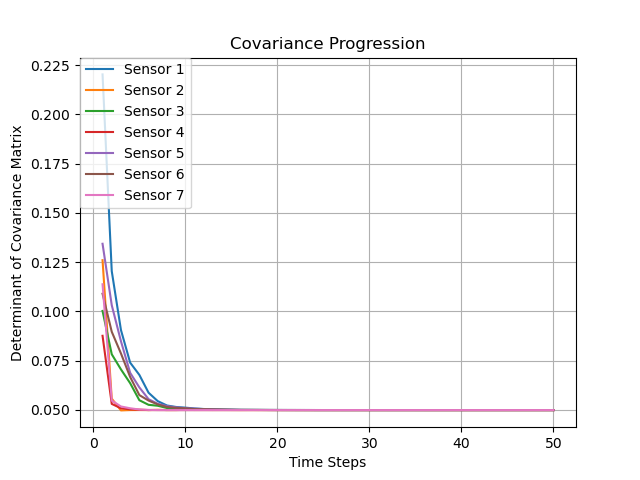
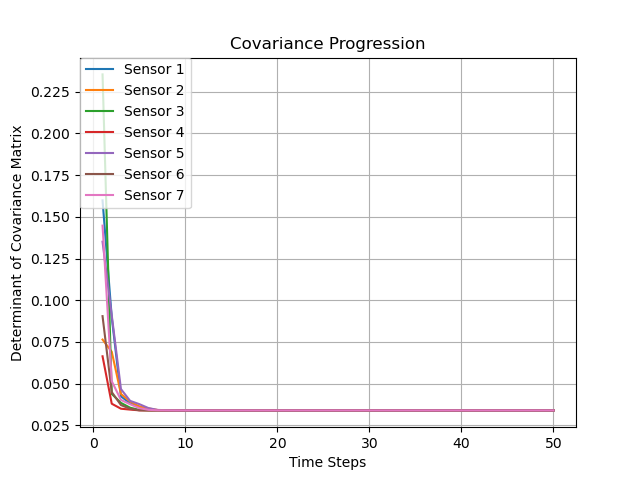
Fixed KL computation error also runs much faster now

diff --git a/decentralizedFusion.py b/decentralizedFusion.py
@@ -7,12 +7,20 @@ from scipy.stats import multivariate_normal
 from tqdm import tqdm
 import matplotlib.pyplot as plt
 
+import cProfile, pstats, io
+from pstats import SortKey
+
 def plot_ellipse(covariance, ax, label_t):
     x_el = np.array([np.sin(np.linspace(0, 2*math.pi, num=63)), np.cos(np.linspace(0, 2*math.pi, num=63))])
     C = np.linalg.cholesky(covariance)
     y_el = np.dot(C, x_el)
     ax.plot(y_el[0], y_el[1], label=label_t)
 
+def plot_last_ellipse(covariance, ax, label_t):
+    x_el = np.array([np.sin(np.linspace(0, 2*math.pi, num=63)), np.cos(np.linspace(0, 2*math.pi, num=63))])
+    C = np.linalg.cholesky(covariance)
+    y_el = np.dot(C, x_el)
+    ax.plot(y_el[0], y_el[1], label=label_t, linewidth=3)
 
 def CI(mu_s, cov_s, weights):
     total_cov = np.zeros(cov_s[0].shape)
@@ -45,7 +53,7 @@ def get_weights(sensor_covariances):
     weights = determinats/np.linalg.norm(determinats)
     return weights, c
 
-def covarianceIntersection(sensor_readings, sensor_covariances, N_time_steps, neighbors, N_agents, KL_inp, true_dist):
+def covarianceIntersection(sensor_readings, sensor_covariances, N_time_steps, neighbors, N_agents, KL_inp, true_dist, calculate_KL=True, calculate_det=True):
     KL_div = {}
     ax = plt.axes()
     determinant_progression = {}
@@ -63,10 +71,12 @@ def covarianceIntersection(sensor_readings, sensor_covariances, N_time_steps, ne
                 mu_s.append(sensor_readings[k])
                 cov_s.append(sensor_covariances[k])
             sensor_readings[j], sensor_covariances[j] = find_optimal_cov_and_mu(5, mu_s, cov_s)
-            dist = multivariate_normal(sensor_readings[j], sensor_covariances[j])
-            KL_div[j].append(compute_KL(true_dist, dist, KL_inp))
-            determinant_progression[j].append(lin.det(sensor_covariances[j]))
-    plot_ellipse(sensor_covariances[0], ax, "FINAL")
+            if(calculate_KL):
+                dist = multivariate_normal(sensor_readings[j], sensor_covariances[j])
+                KL_div[j].append(compute_KL(true_dist, dist, KL_inp))
+            if(calculate_det):
+                determinant_progression[j].append(lin.det(sensor_covariances[j]))
+    plot_last_ellipse(sensor_covariances[0], ax, "FINAL")
     plt.legend(loc='upper left', borderaxespad=0.)
     plt.grid(b = True)
     plt.title("Covariance Ellipses")

diff --git a/main.py b/main.py
@@ -48,7 +48,8 @@ P_link = .02
 axis_length = 100
 KL_inputs = []
 N_time_steps = 50
-
+calculate_KL_guard = False
+calculate_covariance_det = True
 #Used to plot pdf functions
 
 my_space.ang_meas_sigma = 5 * math.pi/180
@@ -134,33 +135,35 @@ P_centralized = multivariate_normal(fused_mu, fused_cov)
 
 #CI Decentralized Fusion
 
-sensor_mus, sensor_covs, KL_div, determinants = covarianceIntersection(sensor_mus, sensor_covs, N_time_steps, neighbors, N_agents, KL_inputs, P_centralized)
-ax = plt.axes()
+sensor_mus, sensor_covs, KL_div, determinants = covarianceIntersection(sensor_mus, sensor_covs, N_time_steps, neighbors, N_agents, KL_inputs, P_centralized, calculate_KL=calculate_KL_guard, calculate_det=calculate_covariance_det)
 X_axis = [i for i in range(1, N_time_steps + 1)]
-for i in range(N_agents):
-    kl = KL_div[i]
-    ax.plot(X_axis, kl, label="Sensor " + str(i + 1))
+if(calculate_KL_guard):    
+    ax = plt.axes()
+    for i in range(N_agents):
+        kl = KL_div[i]
+        ax.plot(X_axis, kl, label="Sensor " + str(i + 1))
 
-plt.ylabel("KL Divergence")
-plt.xlabel("Time Steps")
-plt.title("KL Divergence Progression")
-plt.legend(loc='upper left', borderaxespad=0.)
-plt.grid(b = True)
-plt.savefig("KL_Divergence.png")
-plt.show()
+    plt.ylabel("KL Divergence")
+    plt.xlabel("Time Steps")
+    plt.title("KL Divergence Progression")
+    plt.legend(loc='upper left', borderaxespad=0.)
+    plt.grid(b = True)
+    plt.savefig("KL_Divergence.png")
+    plt.show()
 
-ax = plt.axes()
-for i in range(N_agents):
-    deter = determinants[i][1:]
-    ax.plot(X_axis, deter, label = "Sensor " + str(i + 1))
+if(calculate_covariance_det):
+    ax = plt.axes()
+    for i in range(N_agents):
+        deter = determinants[i][1:]
+        ax.plot(X_axis, deter, label = "Sensor " + str(i + 1))
 
-plt.ylabel("Determinant of Covariance Matrix")
-plt.xlabel("Time Steps")
-plt.title("Covariance Progression")
-plt.legend(loc='upper left', borderaxespad=0.)
-plt.grid(b = True)
-plt.savefig("Covariance_Progression.png")
-plt.show()
+    plt.ylabel("Determinant of Covariance Matrix")
+    plt.xlabel("Time Steps")
+    plt.title("Covariance Progression")
+    plt.legend(loc='upper left', borderaxespad=0.)
+    plt.grid(b = True)
+    plt.savefig("Covariance_Progression.png")
+    plt.show()
 
 
 

diff --git a/KL_divergence.py b/KL_divergence.py
@@ -1,6 +1,7 @@
 import matplotlib.pyplot as plt
 import numpy as np
 import math
+from tqdm import tqdm
 
 np.seterr(divide='ignore', invalid='ignore')
 
@@ -31,15 +32,4 @@ def compute_KL(P, Q, input):
     ignored_states = np.seterr(**old_err_state)
     p = np.array(p)
     q = np.array(q)
-    div = np.divide(p, q)
-    fixed_div = []
-    fixed_p = []
-    for j in range(len(div)):
-        i = div[j]
-        if not(i == float('-inf') or i == float('+inf') or math.isnan(i) or abs(i) < 1e-200):
-            fixed_div.append(i)
-            fixed_p.append(p[j])
-    fixed_div = np.array(fixed_div)
-    fixed_p = np.array(fixed_p)
-    return np.sum(fixed_p*np.log(fixed_div))
-
+    return np.sum(np.where(p != 0, p * np.log(p / q), 0))
